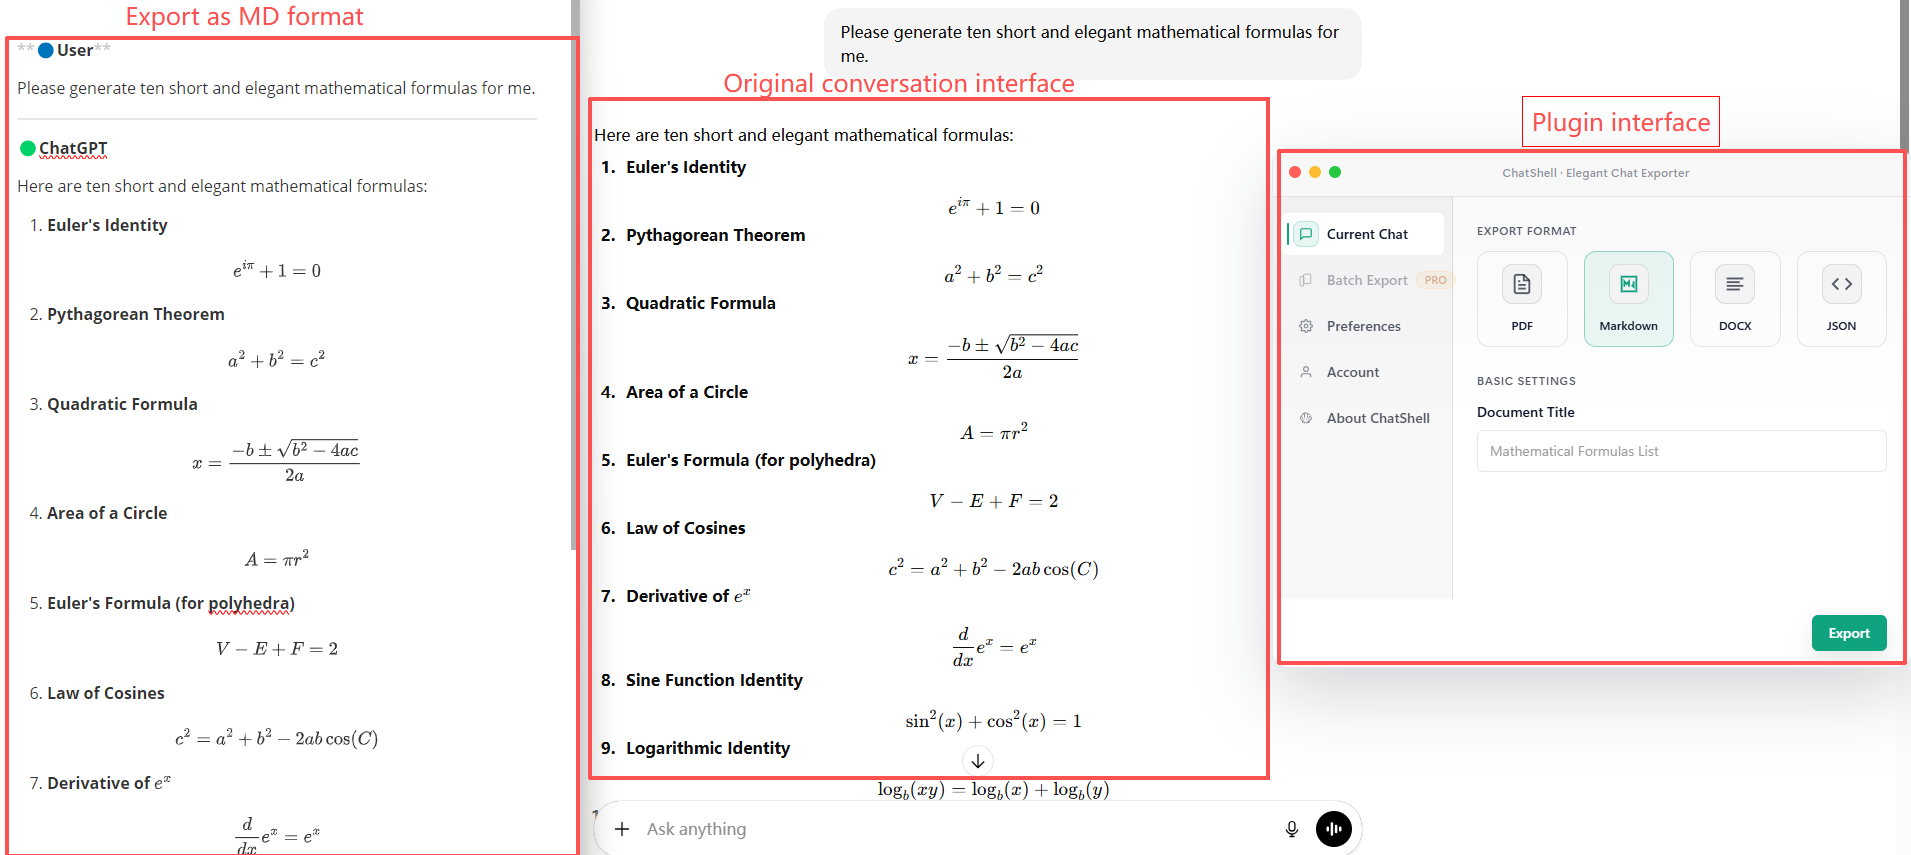
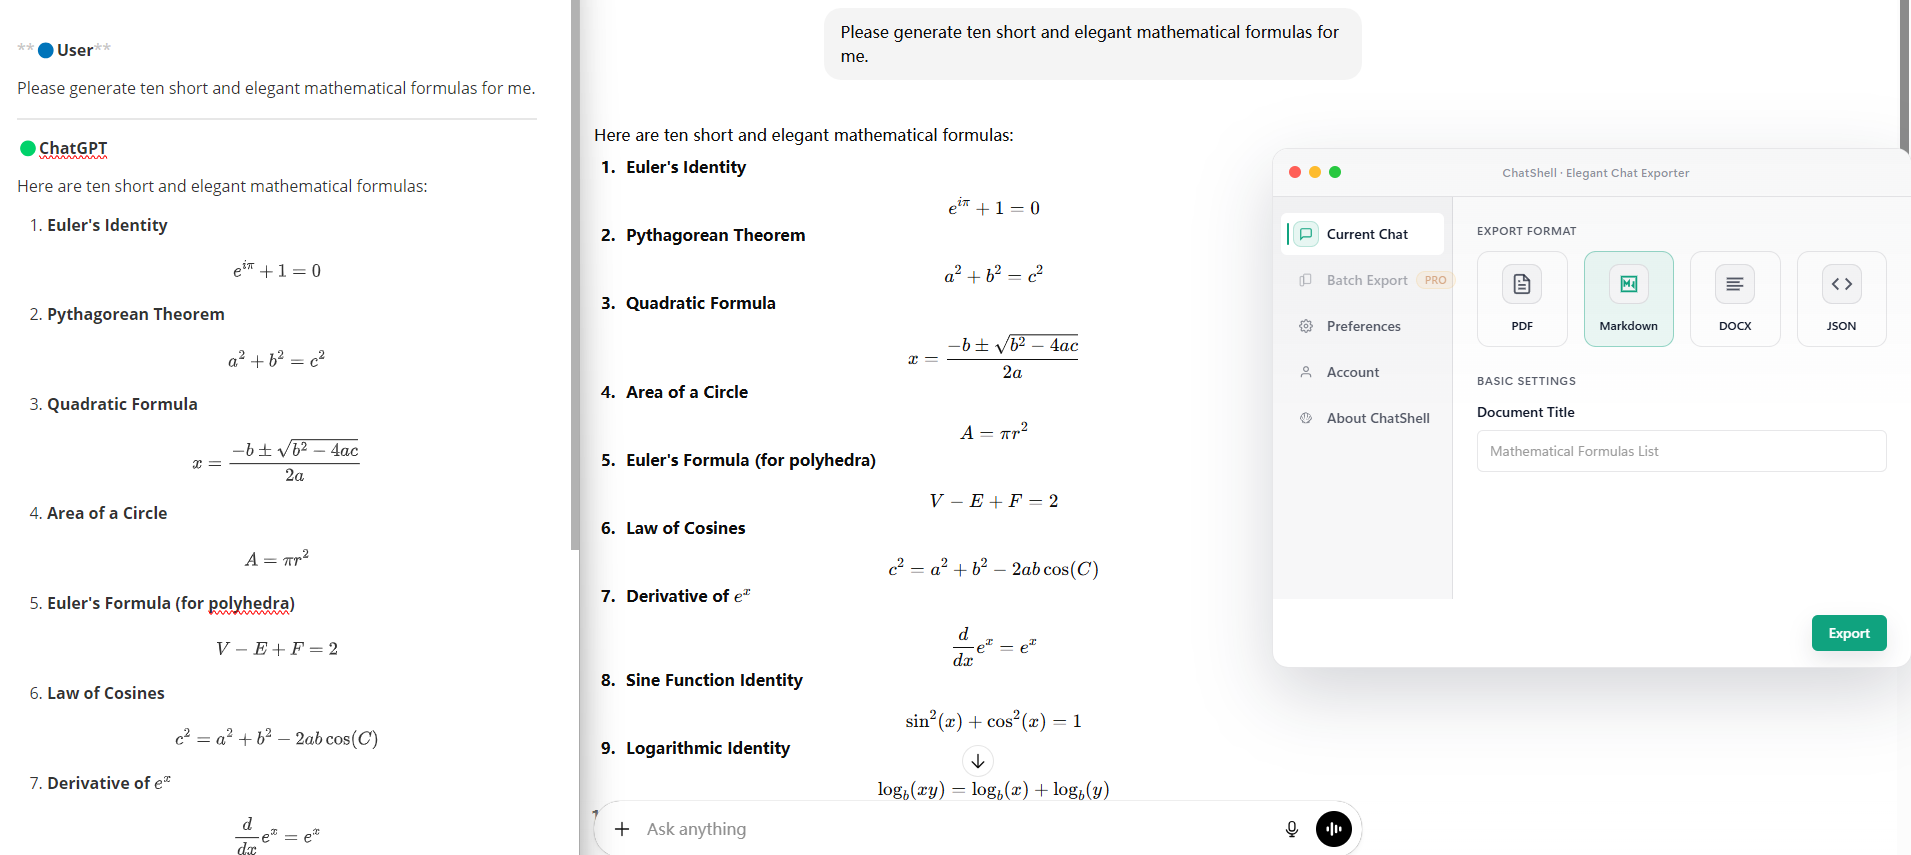
feat: update hero image with math formula export showcase
- Replace hero screenshot with full workflow demonstration
- Update subtitle to highlight LaTeX math formula support

diff --git a/script.js b/script.js
@@ -11,7 +11,7 @@ const translations = {
         nav_privacy: '隐私政策',
         nav_terms: '服务条款',
         hero_title: '优雅地保存每一段对话',
-        hero_subtitle: '本地运行，隐私优先。<br>将 ChatGPT 对话导出为 PDF、Markdown、DOCX 等格式。',
+        hero_subtitle: '本地运行，隐私优先。<br>完美支持 LaTeX 数学公式，导出为 PDF、Markdown、DOCX 等格式。',
         btn_get_started: '开始使用',
         feature_1_title: '多格式导出',
         feature_1_desc: '支持 PDF、Markdown、DOCX、HTML、JSON 等格式，导出更干净、更可读。',
@@ -134,7 +134,7 @@ const translations = {
         nav_privacy: 'Privacy Policy',
         nav_terms: 'Terms of Service',
         hero_title: 'Elegantly save every conversation',
-        hero_subtitle: 'Local-first, privacy-focused.<br>Export ChatGPT conversations to PDF, Markdown, DOCX, HTML, JSON, and more.',
+        hero_subtitle: 'Local-first, privacy-focused.<br>Perfect LaTeX math support. Export to PDF, Markdown, DOCX, and more.',
         btn_get_started: 'Get Started',
         feature_1_title: 'Multi-format Export',
         feature_1_desc: 'Export to PDF, Markdown, DOCX, HTML, JSON, and more — clean and readable outputs.',

diff --git a/index.html b/index.html
@@ -56,7 +56,7 @@
             src="assets/screenshots/current-conversation.png"
             width="945"
             height="771"
-            alt="ChatShell export dialog with PDF, Markdown, DOCX, JSON format options"
+            alt="ChatShell exporting mathematical formulas from ChatGPT conversation"
             class="hero-screenshot"
             decoding="async"
           />
